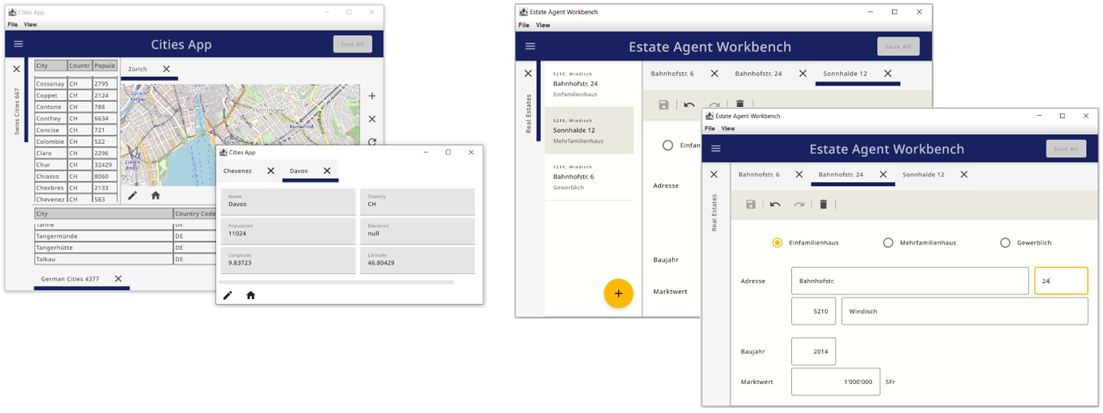
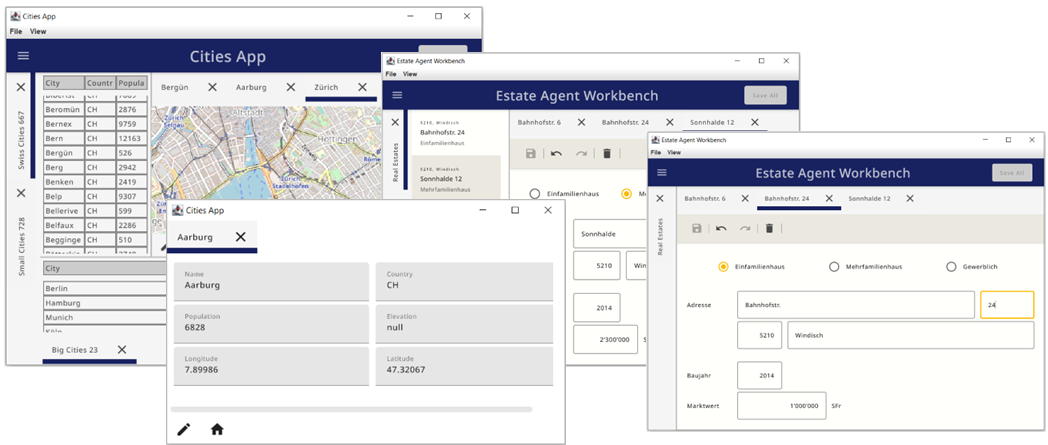
Updated image and design guide in readme

diff --git a/README.md b/README.md
@@ -1,7 +1,7 @@
 # ComposeWorkbench
 Compose desktop library to build large Applications by combining existing Modules.
 
-<img alt="Workbench Examples" src="./Doku/images/workbench_examples.png" height="413" />
+<img alt="Workbench Examples" src="./Doku/images/workbench_examples.png" height="445" />
 
 # What is a ComposeWorkbench
 The ComposeWorkbench provides common application structures to custom modules. It supports two types of modules, explorers and editors. Once embedded in the ComposeWorkbench these modules can be dragged and dropped and the window management is taken care of. There is also support for custom commands and a messaging system that allows communication between the individual modules.
@@ -174,3 +174,17 @@ mqtt.subscribe("my-city-app/city/#") { topic, msg ->
     }
 }
 ```
+
+## Design guide
+
+### Explorer
+- Keep your Explorer read only.
+- Keep requesting of editors consistent (single click or double click)
+
+### Editor
+- When programming an Editor don't add a "Save" Button to the Editor itself use the Workbench internal save mechanism instead.
+- Publish changes using the publishUnsaved function on the MqClient whenever the Editors state is changed
+
+### General
+Given by the way Explorer and Editors interact, a Type and an Id, the Compose Workbench supports  Modules which are completely ignorant of each other. To fully benefit from this it is recommenced to use one common Database for the Workbench and to use Database ids and Database Tables/Entities as types.
+All Communication between Modules should only happen using the internal messaging.
